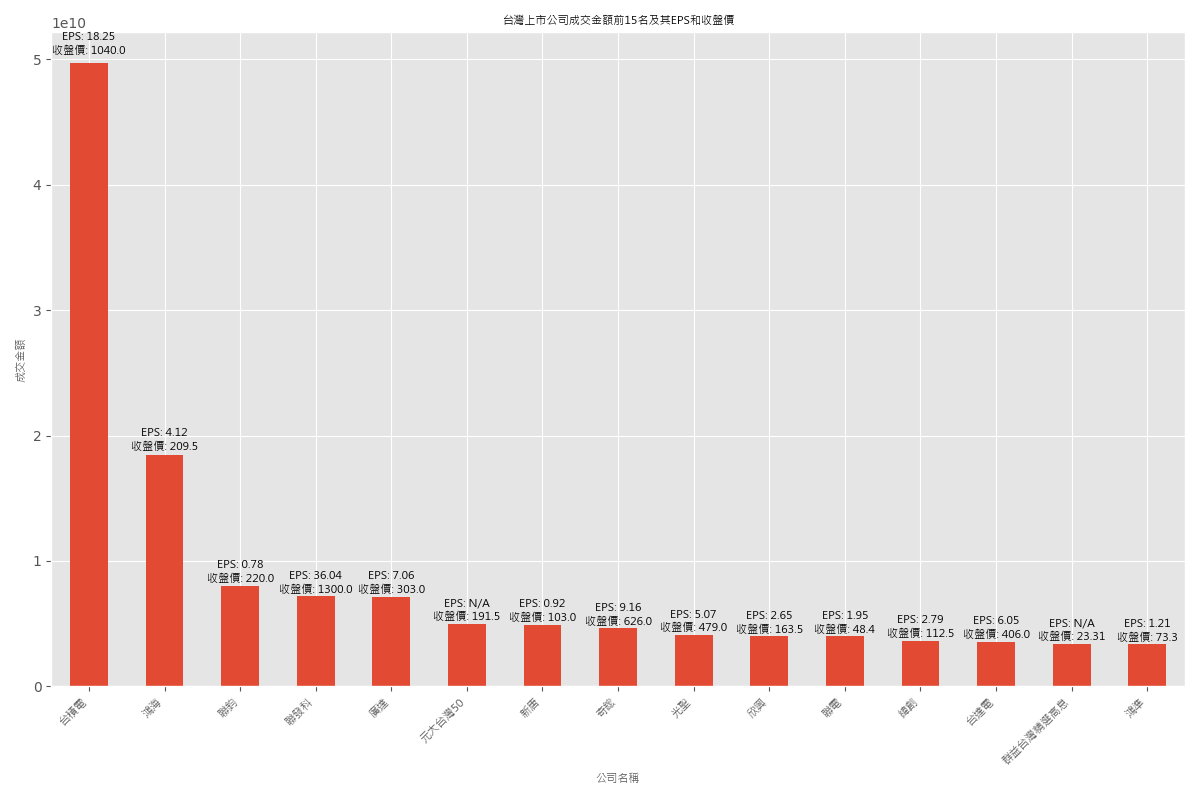
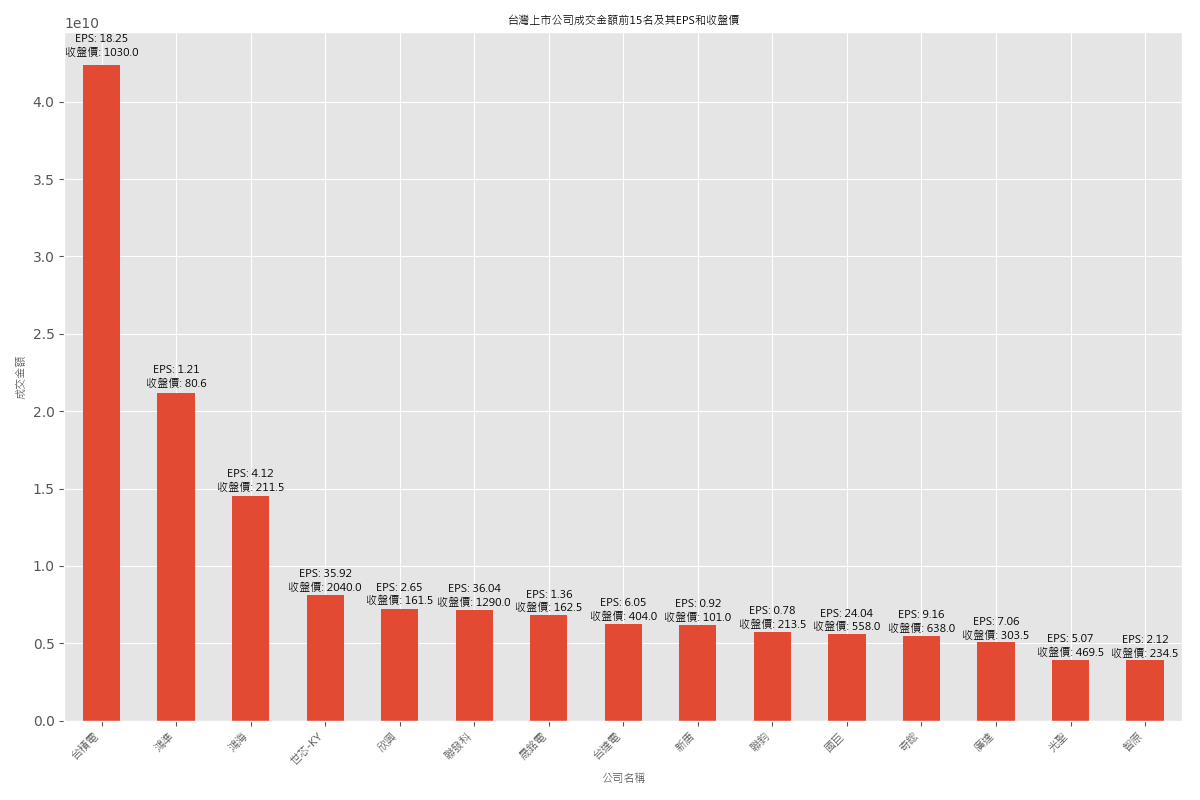
Update from GitHub Actions

diff --git a/README.md b/README.md
@@ -14,59 +14,59 @@ EPS從每年的年初開始計算。
 
 ![2330_3month_history](https://github.com/weitsunglin/quick_analyze_taiwan_hot_stock/blob/main/hot/2330_3month_history.png)
 
+### 股票代號：2354
+
+![2354_3month_history](https://github.com/weitsunglin/quick_analyze_taiwan_hot_stock/blob/main/hot/2354_3month_history.png)
+
 ### 股票代號：2317
 
 ![2317_3month_history](https://github.com/weitsunglin/quick_analyze_taiwan_hot_stock/blob/main/hot/2317_3month_history.png)
 
-### 股票代號：3450
+### 股票代號：3661
 
-![3450_3month_history](https://github.com/weitsunglin/quick_analyze_taiwan_hot_stock/blob/main/hot/3450_3month_history.png)
-
-### 股票代號：2454
-
-![2454_3month_history](https://github.com/weitsunglin/quick_analyze_taiwan_hot_stock/blob/main/hot/2454_3month_history.png)
-
-### 股票代號：2382
-
-![2382_3month_history](https://github.com/weitsunglin/quick_analyze_taiwan_hot_stock/blob/main/hot/2382_3month_history.png)
-
-### 股票代號：0050
-
-![0050_3month_history](https://github.com/weitsunglin/quick_analyze_taiwan_hot_stock/blob/main/hot/0050_3month_history.png)
-
-### 股票代號：4919
-
-![4919_3month_history](https://github.com/weitsunglin/quick_analyze_taiwan_hot_stock/blob/main/hot/4919_3month_history.png)
-
-### 股票代號：3017
-
-![3017_3month_history](https://github.com/weitsunglin/quick_analyze_taiwan_hot_stock/blob/main/hot/3017_3month_history.png)
-
-### 股票代號：6442
-
-![6442_3month_history](https://github.com/weitsunglin/quick_analyze_taiwan_hot_stock/blob/main/hot/6442_3month_history.png)
+![3661_3month_history](https://github.com/weitsunglin/quick_analyze_taiwan_hot_stock/blob/main/hot/3661_3month_history.png)
 
 ### 股票代號：3037
 
 ![3037_3month_history](https://github.com/weitsunglin/quick_analyze_taiwan_hot_stock/blob/main/hot/3037_3month_history.png)
 
-### 股票代號：2303
+### 股票代號：2454
 
-![2303_3month_history](https://github.com/weitsunglin/quick_analyze_taiwan_hot_stock/blob/main/hot/2303_3month_history.png)
+![2454_3month_history](https://github.com/weitsunglin/quick_analyze_taiwan_hot_stock/blob/main/hot/2454_3month_history.png)
 
-### 股票代號：3231
+### 股票代號：3013
 
-![3231_3month_history](https://github.com/weitsunglin/quick_analyze_taiwan_hot_stock/blob/main/hot/3231_3month_history.png)
+![3013_3month_history](https://github.com/weitsunglin/quick_analyze_taiwan_hot_stock/blob/main/hot/3013_3month_history.png)
 
 ### 股票代號：2308
 
 ![2308_3month_history](https://github.com/weitsunglin/quick_analyze_taiwan_hot_stock/blob/main/hot/2308_3month_history.png)
 
-### 股票代號：00919
+### 股票代號：4919
 
-![00919_3month_history](https://github.com/weitsunglin/quick_analyze_taiwan_hot_stock/blob/main/hot/00919_3month_history.png)
+![4919_3month_history](https://github.com/weitsunglin/quick_analyze_taiwan_hot_stock/blob/main/hot/4919_3month_history.png)
 
-### 股票代號：2354
+### 股票代號：3450
 
-![2354_3month_history](https://github.com/weitsunglin/quick_analyze_taiwan_hot_stock/blob/main/hot/2354_3month_history.png)
+![3450_3month_history](https://github.com/weitsunglin/quick_analyze_taiwan_hot_stock/blob/main/hot/3450_3month_history.png)
+
+### 股票代號：2327
+
+![2327_3month_history](https://github.com/weitsunglin/quick_analyze_taiwan_hot_stock/blob/main/hot/2327_3month_history.png)
+
+### 股票代號：3017
+
+![3017_3month_history](https://github.com/weitsunglin/quick_analyze_taiwan_hot_stock/blob/main/hot/3017_3month_history.png)
+
+### 股票代號：2382
+
+![2382_3month_history](https://github.com/weitsunglin/quick_analyze_taiwan_hot_stock/blob/main/hot/2382_3month_history.png)
+
+### 股票代號：6442
+
+![6442_3month_history](https://github.com/weitsunglin/quick_analyze_taiwan_hot_stock/blob/main/hot/6442_3month_history.png)
+
+### 股票代號：3035
+
+![3035_3month_history](https://github.com/weitsunglin/quick_analyze_taiwan_hot_stock/blob/main/hot/3035_3month_history.png)
 
